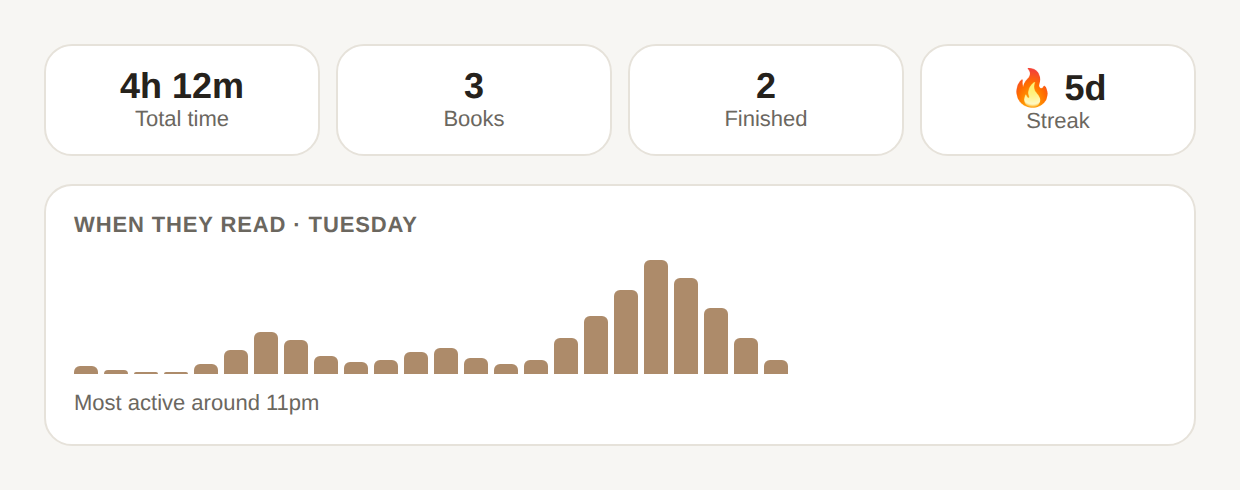
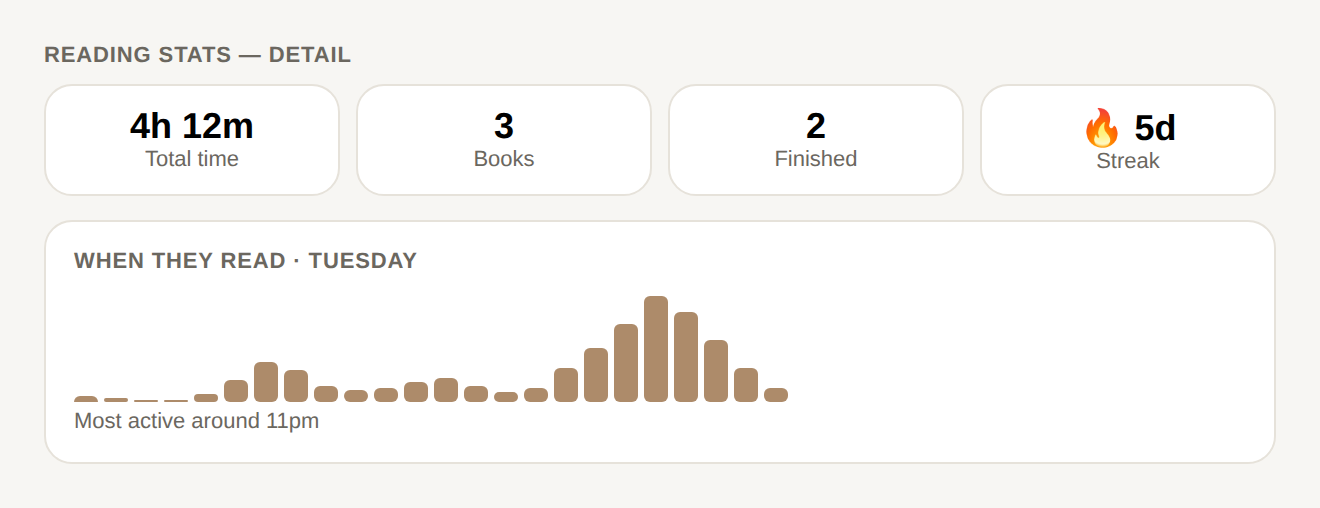
Use real screenshots in changelog + popup; make how-to-use prominent
- Swap the changelog/popup previews for higher-fidelity screenshots (reader top
  bar, bump/message menu, online strip, stats, privacy toggle, clear cache) and
  give every item a matching image.
- Make the 'How to use' step a highlighted callout in both the what's-new popup
  and the changelog, so the popup alone tells a reader how to use each feature
  without opening the changelog.

Claude-Session: https://claude.ai/code/session_01MuLP18jYaBouccHHZvLaV1

diff --git a/lib/changelog.ts b/lib/changelog.ts
@@ -38,13 +38,14 @@ export const CHANGELOG: ChangelogEntry[] = [
         image: "/changelog/stats.png",
       },
       {
-        title: "Faster loading, fewer data used",
+        title: "Faster loading, less data used",
         body: "Book covers, artwork and app files are now kept on your device after the first load, so pages open faster and use less data on repeat visits. The reader also gets the next chapter ready in advance, so moving on is instant.",
       },
       {
         title: "Clear cached data",
         body: "If something ever looks out of date or you want to free up space, you can wipe the on-device cache and reload everything fresh.",
         how: "Go to Account → Storage → Clear cached data.",
+        image: "/changelog/cache.png",
       },
     ],
   },
@@ -58,19 +59,19 @@ export const CHANGELOG: ChangelogEntry[] = [
         title: "See who's online",
         body: "When another reader is in the library at the same time as you, they now show up under “Online now” on your library screen, along with the book and chapter they're on. Inside a book, a small row of reader icons appears at the top — each with a green dot when they're online.",
         how: "Open your library, or a book, and look for the green dots — no setup needed.",
-        image: "/changelog/presence.png",
+        image: "/changelog/online.png",
       },
       {
         title: "Know when someone's reading the same book",
         body: "If another reader is in the exact same book as you, their icon at the top of the reader gets a green ring and a little number showing which chapter they're on — so you can tell at a glance if a friend is right there with you.",
         how: "Open a book someone else is reading and watch the icons at the top of the page.",
-        art: "presence",
+        image: "/changelog/presence-reader.png",
       },
       {
         title: "Bump a friend or send a quick note",
         body: "Tap the reader icons at the top of a book to see who's around. From there you can send a friendly “bump” or a short message. These are just-for-fun, in-the-moment notes — they pop up on the other person's screen for a few seconds and then disappear. Nothing is saved.",
         how: "Tap the reader icons at the top of the reader, then use 👋 to bump or 💬 to send a quick note.",
-        image: "/changelog/nudge.png",
+        image: "/changelog/reader-menu.png",
       },
       {
         title: "Add a profile photo",
@@ -82,6 +83,7 @@ export const CHANGELOG: ChangelogEntry[] = [
         title: "Choose whether to be seen",
         body: "Prefer to read privately? You can turn off sharing so others can't see when you're online or what you're reading. You'll still see everyone else.",
         how: "Go to Account and turn off “Share my reading activity”.",
+        image: "/changelog/privacy.png",
       },
     ],
   },

diff --git a/app/changelog/page.tsx b/app/changelog/page.tsx
@@ -49,8 +49,8 @@ export default async function ChangelogPage() {
                   <h3 className="font-semibold">{item.title}</h3>
                   <p className="mt-1 text-sm">{item.body}</p>
                   {item.how && (
-                    <p className="mt-2 text-sm text-accent">
-                      <span className="font-medium">How:</span> {item.how}
+                    <p className="mt-2 rounded-md bg-accent/10 px-2.5 py-1.5 text-sm text-accent">
+                      <span className="font-semibold">How to use:</span> {item.how}
                     </p>
                   )}
                   {(item.image || item.art) && (

diff --git a/components/WhatsNewPopup.tsx b/components/WhatsNewPopup.tsx
@@ -66,8 +66,8 @@ export default function WhatsNewPopup() {
               <h3 className="text-sm font-semibold">{item.title}</h3>
               <p className="mt-1 text-sm text-muted">{item.body}</p>
               {item.how && (
-                <p className="mt-1.5 text-sm text-accent">
-                  <span className="font-medium">How:</span> {item.how}
+                <p className="mt-2 rounded-md bg-accent/10 px-2.5 py-1.5 text-sm text-accent">
+                  <span className="font-semibold">How to use:</span> {item.how}
                 </p>
               )}
               {(item.image || item.art) && (
